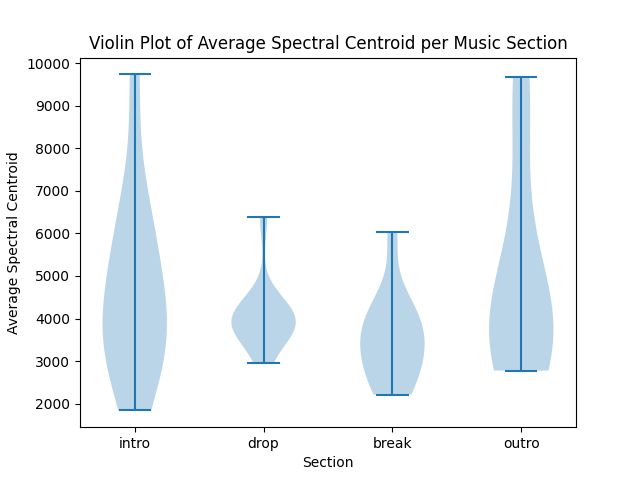
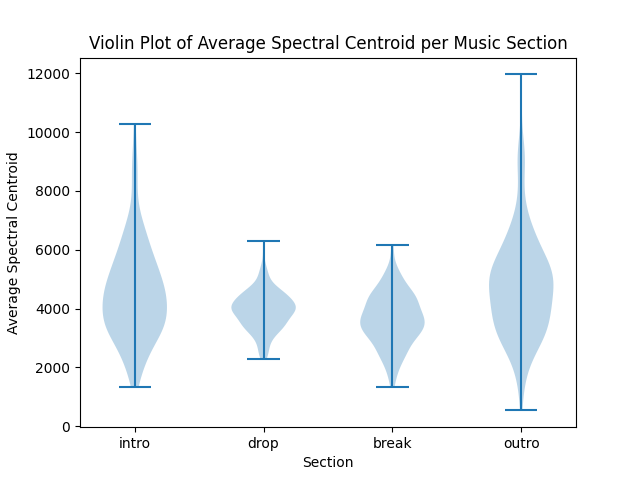
update results to prod

diff --git a/src/experiment1.py b/src/experiment1.py
@@ -75,15 +75,15 @@ def process_files(json_directory, song_directory, freq, allin1, all_section_aver
                 process_file(json_path, song_directory, freq, all_section_averages, allin1)
 
 def main(process_mode):
-    song_directory = const.DEMO_SONG_DIRECTORY
-    json_directory = const.DEMO_JSON_DIRECTORY
+    song_directory = const.PROD_SONG_DIRECTORY
+    json_directory = const.PROD_JSON_DIRECTORY
     freq = Frequency()
     allin1 = Allin1()
     all_section_averages = {'intro': [], 'drop': [], 'break': [], 'outro': []}
 
     process_files(json_directory, song_directory, freq, allin1, all_section_averages)
 
-    if process_mode == 'var':
+    if process_mode == 'bar':
         plot_bar_graph(all_section_averages)
     elif process_mode == 'box':
         plot_box_plot(all_section_averages)
@@ -91,5 +91,5 @@ def main(process_mode):
         plot_violin_plot(all_section_averages)
 
 if __name__ == "__main__":
-    process_mode = 'violin'  # 'var', 'box', or 'violin'
+    process_mode = 'box'  # 'var', 'box', or 'violin'
     main(process_mode)
